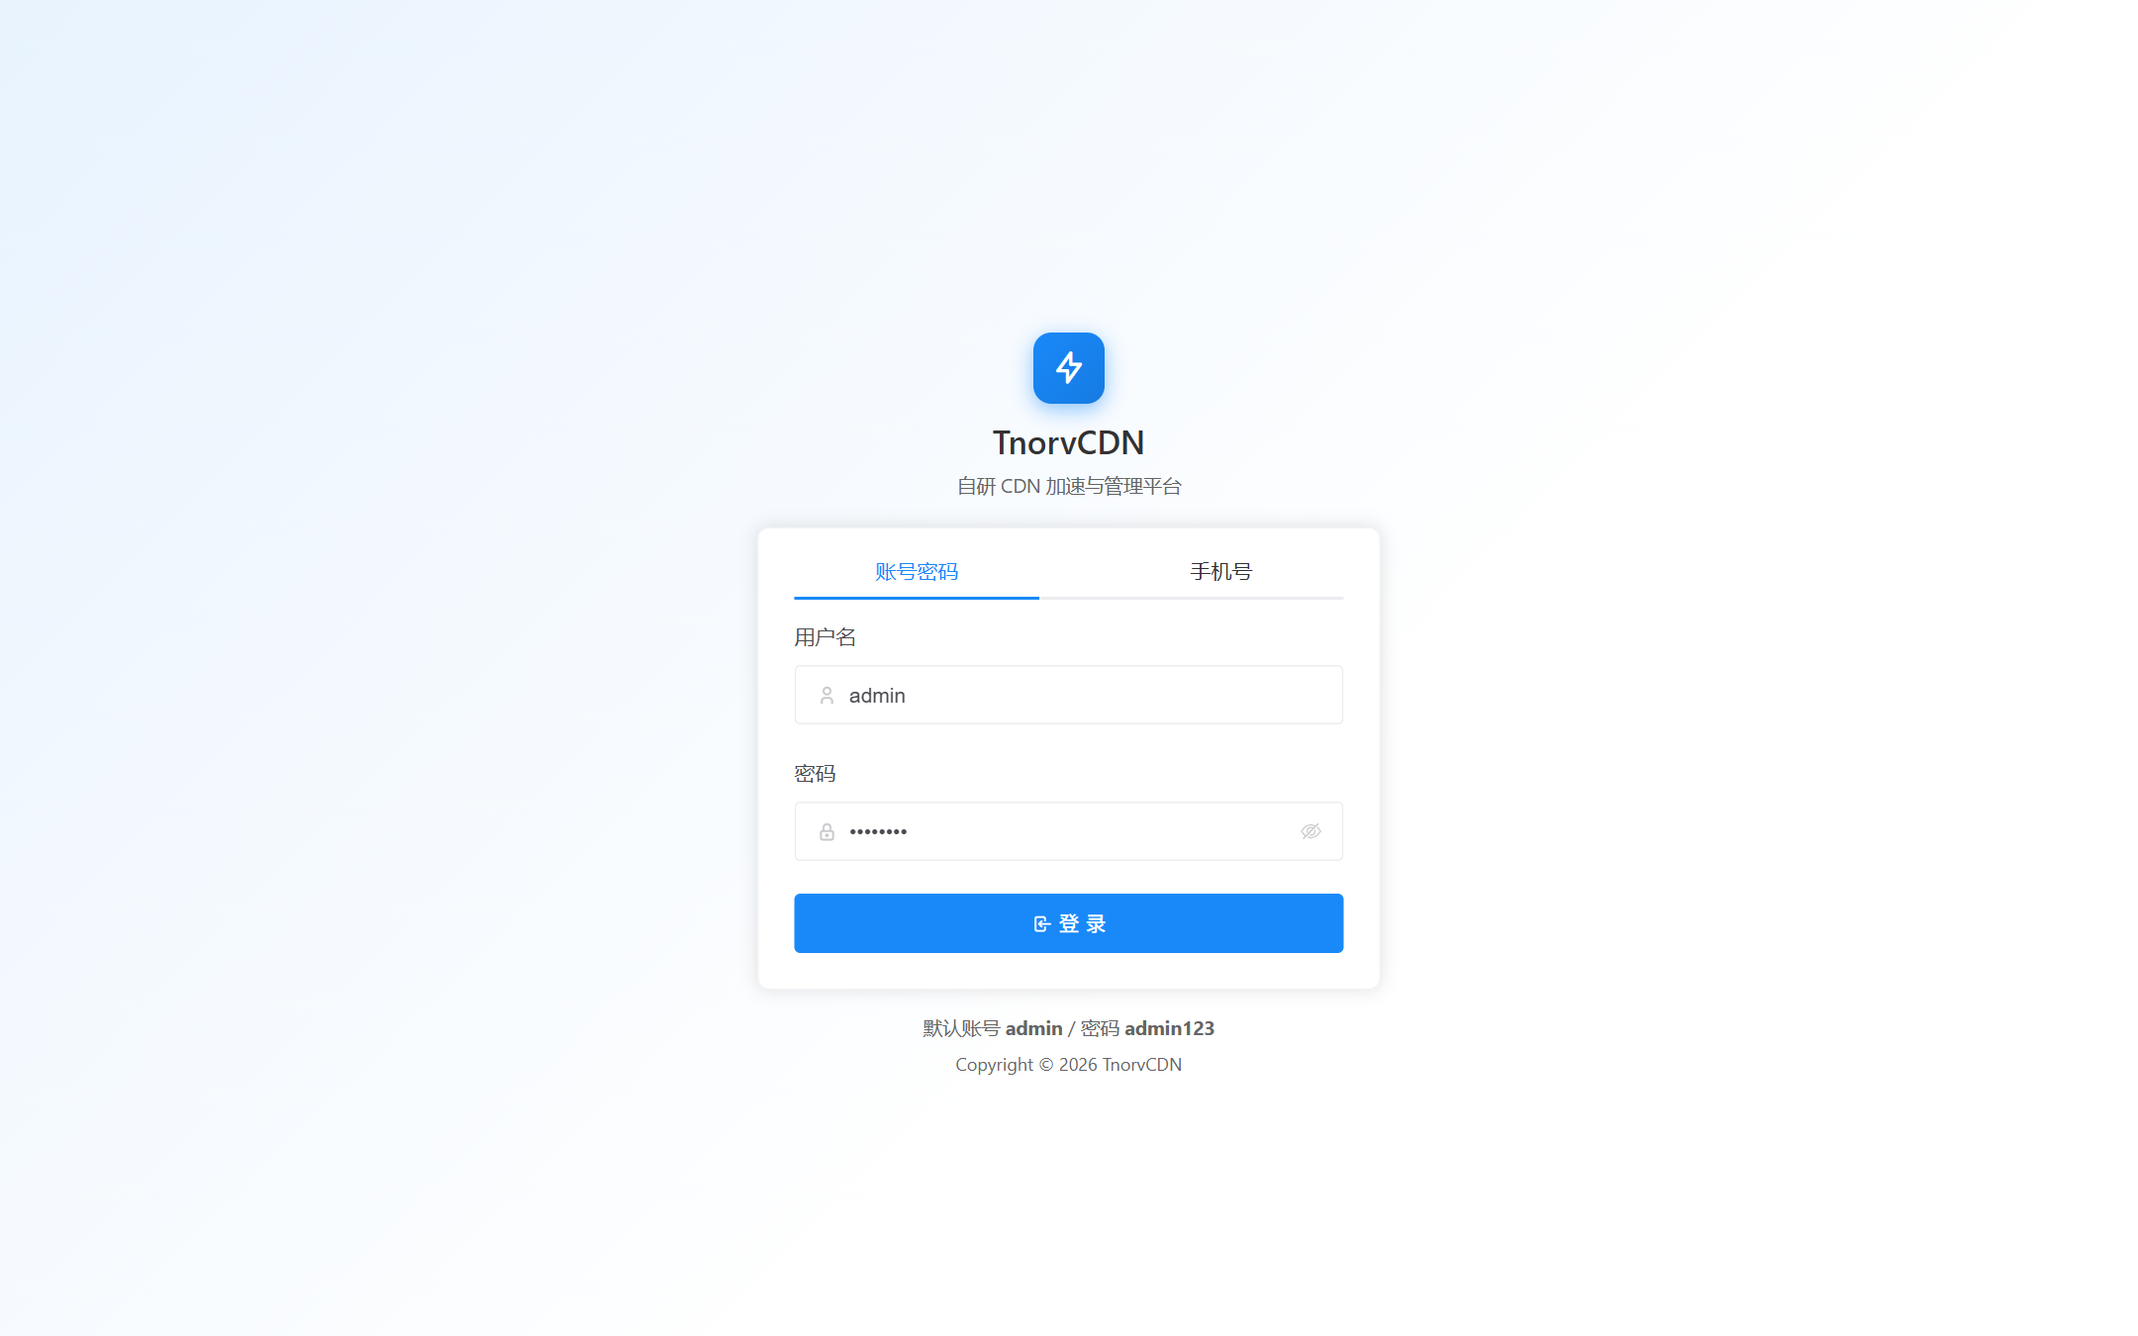
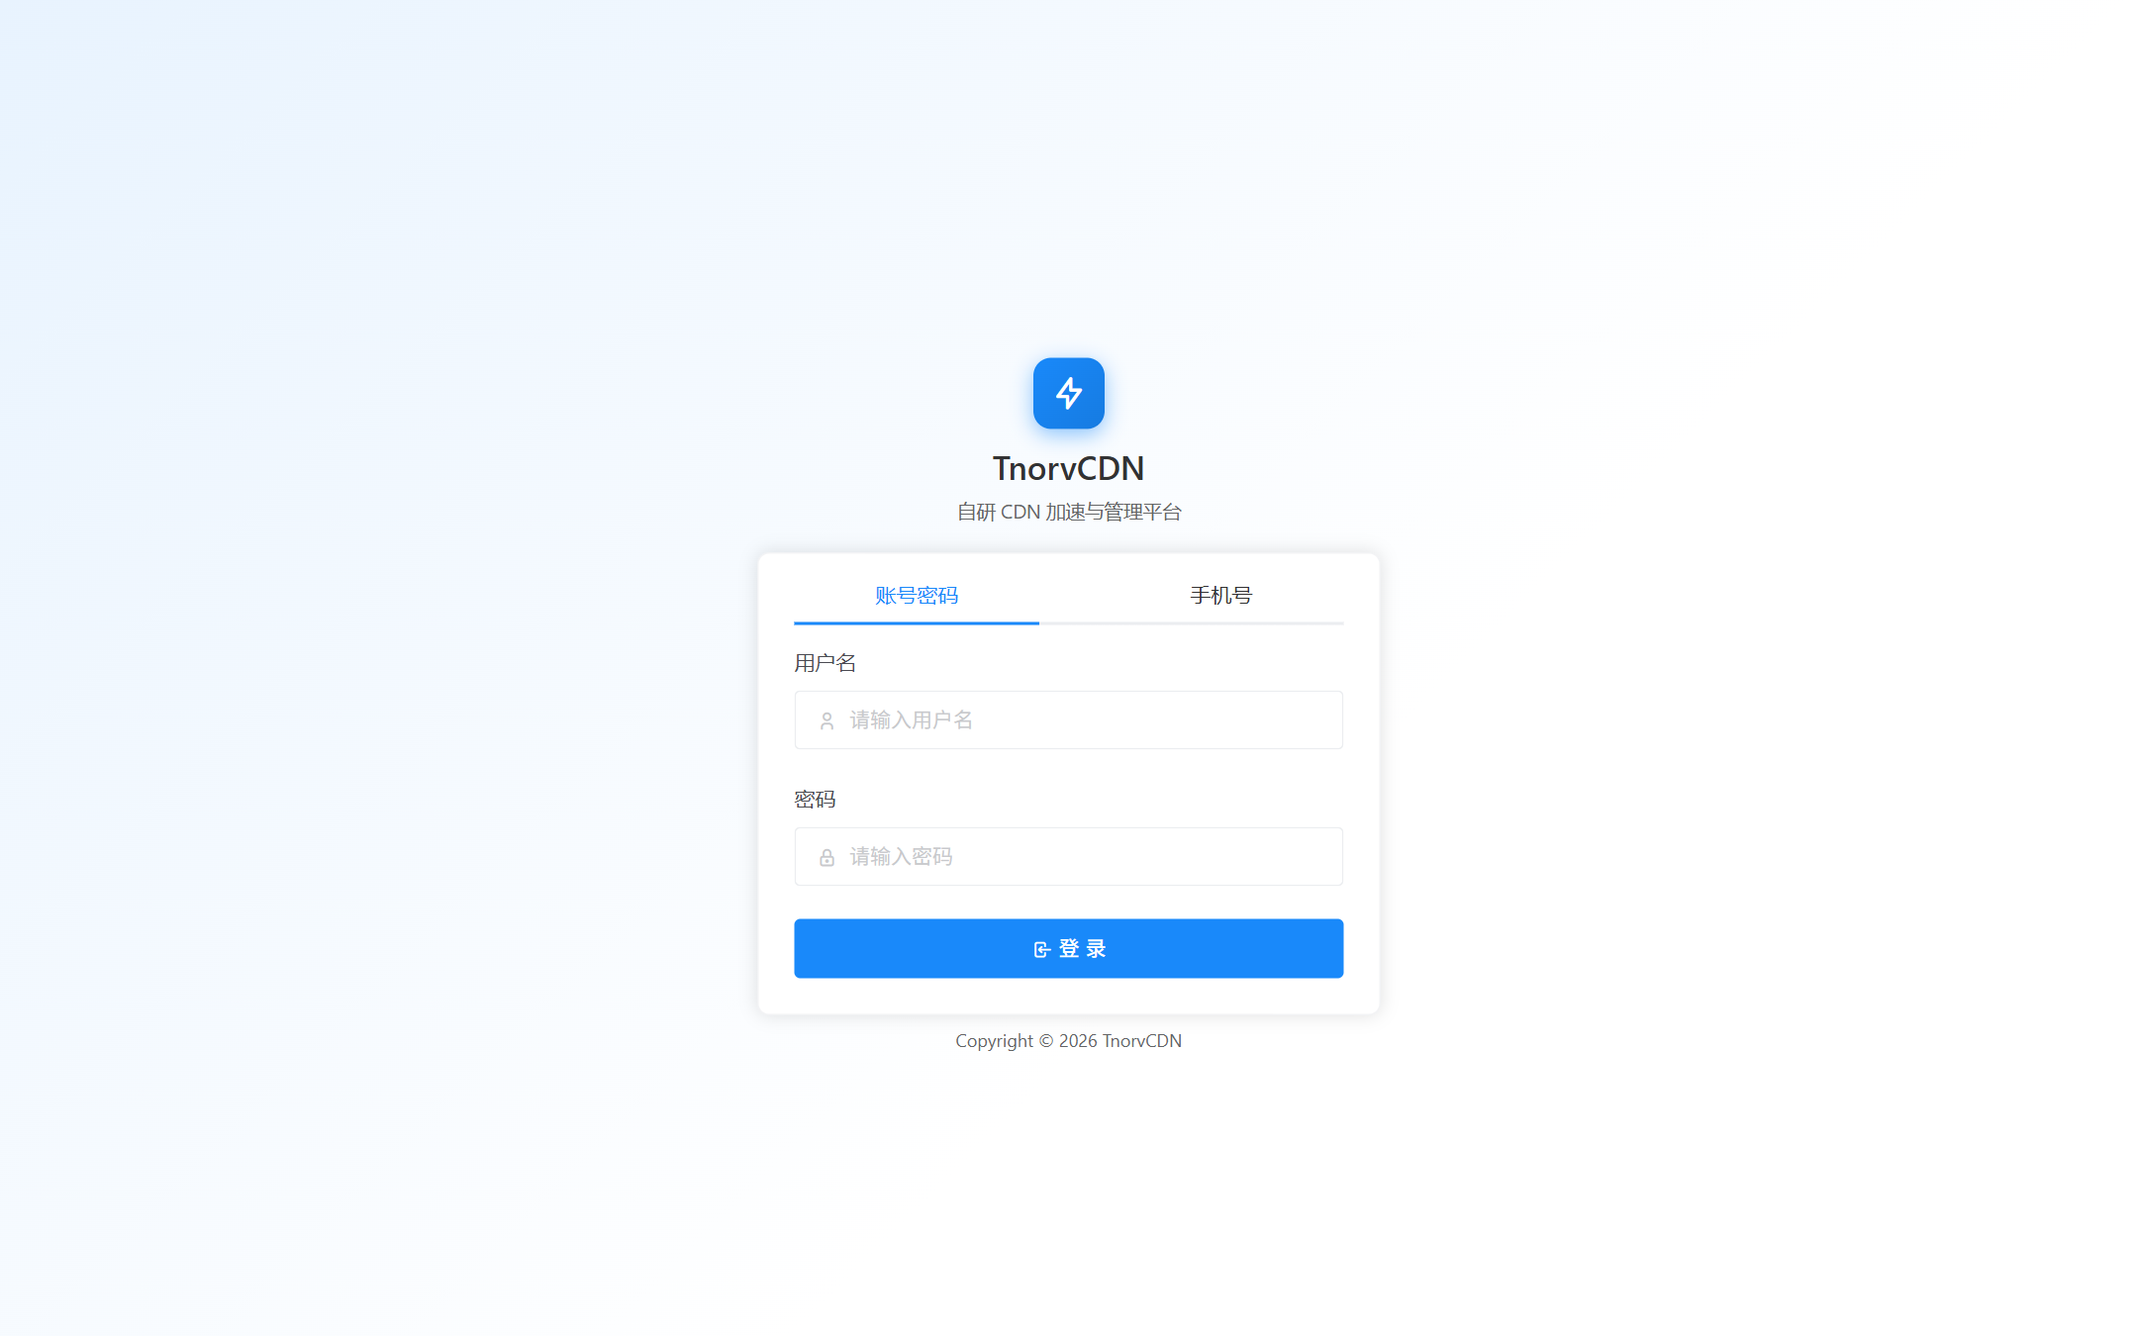
feat: 首次安装引导（环境检测 → 设置管理员账号 → 完成）
- 新增 /api/setup/status 与 /api/setup/complete：库中无任何用户时开放，
  创建管理员后接口永久 403，杜绝被利用重置账号
- 启动逻辑不再内置默认管理员 admin/admin123，仅保证默认集群存在
- 管理端新增 /setup 三步引导页，路由守卫对未登录访问自动带入；
  已初始化系统自动跳回登录，完全向后兼容存量部署
- 登录页移除默认账号提示与预填（两端）
- README/USAGE 同步更新，新增安装引导界面截图

diff --git a/src/web/RapidDev.AdminConsole/src/views/setup/index.vue b/src/web/RapidDev.AdminConsole/src/views/setup/index.vue
@@ -1,0 +1,129 @@
+<script setup lang="ts">
+/** 首次安装引导 —— 全新系统（库中无任何用户）时由路由守卫自动带入：
+ *  环境检测 → 设置管理员账号 → 完成。已在管理端保存后本页永久跳回登录。 */
+import { ref, onMounted } from 'vue'
+import { useRouter } from 'vue-router'
+import { http } from '@/utils/request'
+import { ElMessage } from 'element-plus'
+import { markSetupDone } from '@/router'
+
+const router = useRouter()
+const step = ref(0)
+const needed = ref(false)
+const dbOk = ref(false)
+const clusterOk = ref(true) // 默认集群由启动逻辑保证
+const checking = ref(true)
+const form = ref({ username: '', password: '', confirm: '' })
+const submitting = ref(false)
+const adminName = ref('')
+
+onMounted(async () => {
+  try {
+    const r: any = await http.get('/setup/status')
+    needed.value = !!(r?.data?.needed ?? r?.needed)
+    dbOk.value = true
+    if (!needed.value) router.replace('/login')
+  } catch {
+    dbOk.value = false
+  } finally { checking.value = false }
+})
+
+const submit = async () => {
+  const u = form.value.username.trim()
+  if (!/^[a-zA-Z0-9_一-龥]{3,32}$/.test(u)) return ElMessage.warning('用户名需 3-32 位，仅限字母/数字/下划线/中文')
+  if (form.value.password.length < 8) return ElMessage.warning('密码至少 8 位')
+  if (form.value.password !== form.value.confirm) return ElMessage.warning('两次输入的密码不一致')
+  submitting.value = true
+  try {
+    await http.post('/setup/complete', { username: u, password: form.value.password })
+    adminName.value = u
+    markSetupDone()
+    step.value = 2
+  } finally { submitting.value = false }
+}
+const goLogin = () => router.replace('/login')
+</script>
+
+<template>
+  <div class="setup-page">
+    <div class="setup-card">
+      <div class="text-center mb-4">
+        <div class="setup-logo"><i class="ti ti-bolt"></i></div>
+        <h1 class="setup-title">TnorvCDN</h1>
+        <div class="text-muted">首次安装引导 · 检测到全新系统，请完成初始化</div>
+      </div>
+
+      <el-steps :active="step" align-center finish-status="success" class="mb-4">
+        <el-step title="环境检测" />
+        <el-step title="管理员账号" />
+        <el-step title="完成" />
+      </el-steps>
+
+      <!-- Step 0 环境检测 -->
+      <div v-if="step === 0" v-loading="checking" class="step-body">
+        <div class="check-row"><span>数据库连接</span><el-tag :type="dbOk ? 'success' : 'danger'" size="small">{{ dbOk ? '正常' : '失败' }}</el-tag></div>
+        <div class="check-row"><span>默认集群</span><el-tag :type="clusterOk ? 'success' : 'danger'" size="small">{{ clusterOk ? '已就绪（默认集群）' : '未就绪' }}</el-tag></div>
+        <div class="check-row"><span>初始化状态</span><el-tag :type="needed ? 'warning' : 'info'" size="small">{{ needed ? '待初始化（尚无管理员账号）' : '已完成' }}</el-tag></div>
+        <el-button type="primary" class="w-100 mt-4" size="large" :disabled="!dbOk || !needed" @click="step = 1">开始配置</el-button>
+      </div>
+
+      <!-- Step 1 管理员账号 -->
+      <div v-else-if="step === 1" class="step-body">
+        <el-alert type="info" show-icon :closable="false" class="mb-3"
+          title="设置平台管理员账号。为安全起见系统不再内置默认账号，该账号拥有全部管理权限。" />
+        <el-form label-position="top" @submit.prevent>
+          <el-form-item label="管理员用户名">
+            <el-input v-model="form.username" placeholder="3-32 位字母/数字/下划线/中文" maxlength="32" clearable />
+          </el-form-item>
+          <el-form-item label="密码">
+            <el-input v-model="form.password" type="password" placeholder="至少 8 位" show-password maxlength="64" />
+          </el-form-item>
+          <el-form-item label="确认密码">
+            <el-input v-model="form.confirm" type="password" placeholder="再次输入密码" show-password maxlength="64"
+              @keyup.enter="submit" />
+          </el-form-item>
+        </el-form>
+        <el-button type="primary" class="w-100" size="large" :loading="submitting" @click="submit">完成初始化</el-button>
+      </div>
+
+      <!-- Step 2 完成 -->
+      <div v-else class="step-body text-center">
+        <el-result icon="success" title="初始化完成"
+          :sub-title="`管理员「${adminName}」已创建，默认集群已就绪。接下来可登录管理端，接入边缘节点与网站。`">
+          <template #extra>
+            <el-button type="primary" size="large" @click="goLogin">前往登录</el-button>
+          </template>
+        </el-result>
+      </div>
+    </div>
+    <div class="setup-foot text-muted">Copyright © 2026 TnorvCDN</div>
+  </div>
+</template>
+
+<style scoped>
+.setup-page {
+  min-height: 100vh;
+  display: flex; flex-direction: column; align-items: center; justify-content: center;
+  background: linear-gradient(160deg, #e8f1ff 0%, #f5f8ff 60%, #eef4ff 100%);
+  padding: 24px;
+}
+.setup-card {
+  width: 520px; max-width: 100%;
+  background: #fff; border-radius: 12px;
+  box-shadow: 0 8px 40px rgba(64, 158, 255, .12);
+  padding: 32px 36px;
+}
+.setup-logo {
+  width: 56px; height: 56px; margin: 0 auto 12px;
+  border-radius: 14px; background: var(--el-color-primary, #409EFF);
+  display: flex; align-items: center; justify-content: center;
+  color: #fff; font-size: 30px;
+}
+.setup-title { font-size: 24px; margin: 0 0 4px; }
+.step-body { min-height: 220px; }
+.check-row {
+  display: flex; justify-content: space-between; align-items: center;
+  padding: 12px 4px; border-bottom: 1px dashed var(--el-border-color-lighter);
+}
+.setup-foot { margin-top: 20px; font-size: 13px; }
+</style>

diff --git a/src/web/RapidDev.AdminConsole/src/router/index.ts b/src/web/RapidDev.AdminConsole/src/router/index.ts
@@ -21,6 +21,12 @@ export const staticRoutes: RouteRecordRaw[] = [
     component: () => import('@/views/error/404.vue'),
     meta: { title: '404', hidden: true },
   },
+  {
+    path: '/setup',
+    name: 'Setup',
+    component: () => import('@/views/setup/index.vue'),
+    meta: { title: '安装引导', hidden: true },
+  },
 ]
 
 // 所有后台页面统一挂载在同一个 Layout 下,确保侧边栏状态全局一致
@@ -146,7 +152,21 @@ const router = createRouter({
 })
 
 // 全局前置守卫
-const whiteList = ['/login', '/404']
+const whiteList = ['/login', '/404', '/setup']
+
+// 首次安装引导状态缓存：GET /api/setup/status（库中无任何用户 = 需要初始化）。
+// 完成初始化后由安装页调用 markSetupDone() 失效；异常时按"已初始化"处理（fail-open 到登录页）。
+import { http } from '@/utils/request'
+let setupNeeded: boolean | null = null
+async function fetchSetupNeeded(): Promise<boolean> {
+  if (setupNeeded !== null) return setupNeeded
+  try {
+    const r: any = await http.get('/setup/status')
+    setupNeeded = !!r?.data?.needed
+  } catch { setupNeeded = false }
+  return setupNeeded
+}
+export function markSetupDone() { setupNeeded = false }
 
 	router.beforeEach(async (to, _from, next) => {
   NProgress.start()
@@ -201,6 +221,10 @@ const whiteList = ['/login', '/404']
       next()
     }
   } else {
+    // 首次安装引导：全新系统（无任何用户）时把所有未登录访问引导到 /setup
+    const needed = await fetchSetupNeeded()
+    if (needed && to.path !== '/setup') { next('/setup'); return }
+    if (!needed && to.path === '/setup') { next('/login'); return }
     if (whiteList.includes(to.path)) {
       next()
     } else {

diff --git a/src/web/RapidDev.AdminConsole/src/views/login/index.vue b/src/web/RapidDev.AdminConsole/src/views/login/index.vue
@@ -18,7 +18,7 @@ const siteStore = useSiteStore()
 type LoginType = 'password' | 'phone'
 const loginType = ref<LoginType>('password')
 
-const pwdForm = reactive({ userName: 'admin', password: 'admin123' })
+const pwdForm = reactive({ userName: '', password: '' })
 const phoneForm = reactive({ phone: '', smsCode: '', countryCode: '0086' })
 // 国别选项：暂只开放 0086，其余置灰占位
 const countryOptions = [
@@ -210,7 +210,6 @@ onUnmounted(() => { if (smsTimer) clearInterval(smsTimer) })
         </el-form>
       </el-card>
 
-      <div class="login-foot text-muted">默认账号 <strong>admin</strong> / 密码 <strong>admin123</strong></div>
       <div class="login-foot text-muted login-beian">
         <template v-if="siteInfo.icp || siteInfo.psb">
           <a v-if="siteInfo.icp" href="https://beian.miit.gov.cn" target="_blank" rel="noopener" class="text-muted text-decoration-none">{{ siteInfo.icp }}</a>

diff --git a/src/web/RapidDev.UserConsole/src/views/login/index.vue b/src/web/RapidDev.UserConsole/src/views/login/index.vue
@@ -18,7 +18,7 @@ const siteStore = useSiteStore()
 type LoginType = 'password' | 'phone'
 const loginType = ref<LoginType>('password')
 
-const pwdForm = reactive({ userName: 'admin', password: 'admin123' })
+const pwdForm = reactive({ userName: '', password: '' })
 const phoneForm = reactive({ phone: '', smsCode: '', countryCode: '0086' })
 // 国别选项：暂只开放 0086，其余置灰占位
 const countryOptions = [
@@ -219,7 +219,6 @@ onUnmounted(() => { if (smsTimer) clearInterval(smsTimer) })
         </el-form>
       </el-card>
 
-      <div class="login-foot text-muted">默认账号 <strong>admin</strong> / 密码 <strong>admin123</strong></div>
       <div class="login-foot text-muted login-beian">
         <template v-if="siteInfo.icp || siteInfo.psb">
           <a v-if="siteInfo.icp" href="https://beian.miit.gov.cn" target="_blank" rel="noopener" class="text-muted text-decoration-none">{{ siteInfo.icp }}</a>

diff --git a/src/server/TnorvCdn.Api/Endpoints/SetupEndpoints.cs b/src/server/TnorvCdn.Api/Endpoints/SetupEndpoints.cs
@@ -1,0 +1,57 @@
+using System.Text.RegularExpressions;
+using Microsoft.EntityFrameworkCore;
+using TnorvCdn.Api.Core;
+using TnorvCdn.Api.Data;
+
+namespace TnorvCdn.Api.Endpoints;
+
+/// <summary>
+/// 首次安装引导：全新系统（库中无任何用户）时开放，引导设置管理员账号。
+///   GET  /api/setup/status   → { needed }  库中无用户即需要初始化
+///   POST /api/setup/complete → 创建管理员账号；一旦存在任意用户，本接口永久 403
+/// 默认集群由启动逻辑保证存在，这里只负责管理员账号。
+/// </summary>
+public static class SetupEndpoints
+{
+    public static void MapSetupEndpoints(this WebApplication app)
+    {
+        var setup = app.MapGroup("/api/setup");
+
+        setup.MapGet("/status", async (CdnDbContext db) =>
+        {
+            var needed = !await db.Users.AnyAsync();
+            return Results.Json(new
+            {
+                code = 200,
+                message = "操作成功",
+                data = new { needed },
+            });
+        });
+
+        setup.MapPost("/complete", async (SetupInput input, CdnDbContext db) =>
+        {
+            // 安全边界：仅允许在全新系统（无任何用户）时执行，防止越权重置管理员
+            if (await db.Users.AnyAsync())
+                return Results.Json(new { code = 403, message = "系统已初始化，无法重复执行安装引导", data = (object?)null });
+
+            var username = (input.Username ?? "").Trim();
+            var password = input.Password ?? "";
+            if (username.Length < 3 || username.Length > 32 || !Regex.IsMatch(username, @"^[a-zA-Z0-9_一-龥]+$"))
+                return Results.Json(new { code = 400, message = "用户名需 3-32 位，仅限字母/数字/下划线/中文", data = (object?)null });
+            if (password.Length < 8 || password.Length > 64)
+                return Results.Json(new { code = 400, message = "密码长度需 8-64 位", data = (object?)null });
+
+            db.Users.Add(new User
+            {
+                Username = username,
+                PasswordHash = BCrypt.Net.BCrypt.HashPassword(password),
+                IsAdmin = true,
+            });
+            await db.SaveChangesAsync();
+            app.Logger.LogInformation("安装引导完成：已创建管理员 {Username}", username);
+            return Results.Json(new { code = 200, message = "初始化完成", data = new { ok = true } });
+        });
+    }
+
+    public sealed record SetupInput(string? Username, string? Password);
+}

diff --git a/src/server/TnorvCdn.Api/Program.cs b/src/server/TnorvCdn.Api/Program.cs
@@ -274,20 +274,16 @@ using (var scope = app.Services.CreateScope())
         app.Logger.LogInformation("已初始化内置站点配置模板");
     }
 
-    if (!db.Users.Any())
+    if (!db.Clusters.Any())
     {
-        db.Users.Add(new User
-        {
-            Username = "admin",
-            PasswordHash = BCrypt.Net.BCrypt.HashPassword("admin123"),
-            IsAdmin = true
-        });
         db.Clusters.Add(new Cluster { Name = "默认集群" });
         db.SaveChanges();
-        app.Logger.LogInformation("已初始化默认管理员 admin/admin123 与默认集群（生产环境务必修改密码）");
+        app.Logger.LogInformation("已初始化默认集群");
     }
+    // 管理员账号不再自动创建：全新系统首次打开控制台会进入安装引导（/setup）设置管理员账号
 }
 
+app.MapSetupEndpoints();
 app.MapAdminEndpoints();
 app.MapNodeApiEndpoints();
 app.MapRapidDevAuth();

diff --git a/USAGE.md b/USAGE.md
@@ -98,10 +98,12 @@ systemctl daemon-reload && systemctl enable --now tnorv-api
 curl -s http://127.0.0.1:8080/api/auth/site-info   # 返回 200 即正常
 ```
 
-### 4.3 首次初始化
+### 4.3 首次安装引导
 
-- 默认管理员 `admin / admin123`，**上线前务必在管理端修改密码**
-- 自动创建「默认集群」；边缘节点与网站都归属集群
+- 启动时自动建表并初始化「默认集群」；边缘节点与网站都归属集群
+- **系统不内置默认账号**：打开管理端（`http://控制台域名/`）会自动进入安装引导：
+  ① 环境检测（数据库连接/默认集群）→ ② 设置管理员用户名与密码（≥8 位）→ ③ 完成
+  引导仅在库中无任何用户时开放，创建管理员后接口永久关闭（无法被重复利用重置账号）
 - 登录管理端后，先到「系统设置 → 基础设置」核对站点信息，再到「系统设置 → ACME 签发账户」按需配置签发邮箱模板（不配置则节点以无邮箱模式向 Let's Encrypt 签发）
 
 ## 5. 构建与部署控制台
@@ -292,7 +294,7 @@ curl -s http://127.0.0.1:8081/health
 
 ## 13. 安全清单（上线前）
 
-- [ ] 修改默认管理员密码
+- [ ] 安装引导中已设置自定义管理员账号与强密码（系统不内置默认账号）
 - [ ] 替换 `Jwt:Key` 为随机 ≥32 字节
 - [ ] 数据库使用强密码；主控 8080 仅监听内网或置于 nginx 之后
 - [ ] 节点 `configs/tnorv-node.json` 权限 0600（程序默认即为 0600）

diff --git a/README.md b/README.md
@@ -20,9 +20,9 @@ Akari是可爱的Akari，请给Akari按小星星（Star）
 
 ## 界面预览
 
-| 登录 | 管理端 · 数据看板 |
+| 登录 | 首次安装引导 · 环境检测 |
 |---|---|
-| ![登录](assets/login.png) | ![管理端数据看板](assets/admin-dashboard.png) |
+| ![登录](assets/login.png) | ![安装引导](assets/setup-step1.png) |
 
 | 管理端 · 网站列表 | 管理端 · 集群与边缘节点 |
 |---|---|
@@ -67,7 +67,8 @@ dotnet publish src/server/TnorvCdn.Api -c Release -o publish
 ASPNETCORE_URLS=http://0.0.0.0:8080 dotnet publish/TnorvCdn.Api.dll
 ```
 
-首次启动自动建表，并初始化默认管理员 `admin / admin123` 与默认集群 —— **上线前务必修改密码**。
+首次启动自动建表并初始化「默认集群」。打开管理端会自动进入**首次安装引导**（环境检测 → 设置管理员账号 → 完成），
+不再内置默认账号。
 
 管理 API：`http://<主控>:8080/api/*`；节点通信：`/grpc/register`、`/grpc/config`、`/grpc/heartbeat`、`/grpc/logs`。
 
